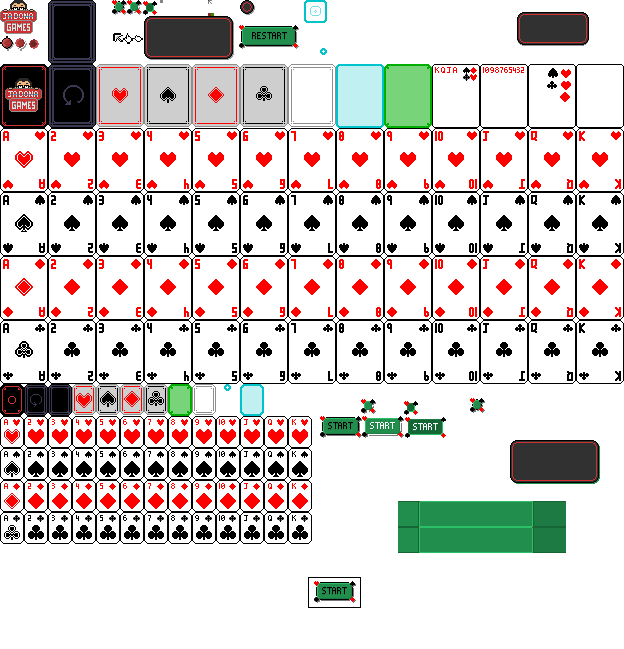
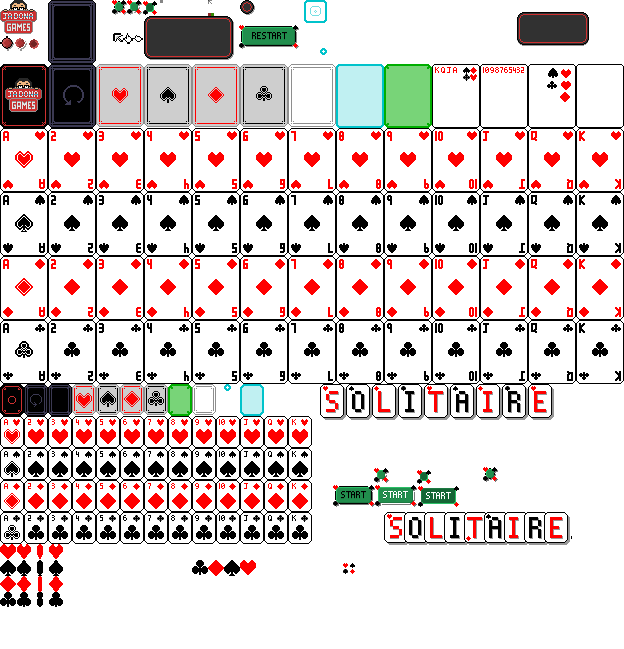
MAJ

diff --git a/SCENES/titleScreen.js b/SCENES/titleScreen.js
@@ -14,6 +14,41 @@ class TitleScreen {
     static init() {
         canvas.style.backgroundColor = CANVAS_ORIGIN_COLOR;
 
+        let originX = 320;
+        let offX = 0;
+        let y = 10;
+        let offY = 3; 
+        for (let i = 0; i < 9; i++) {
+            if (isPair(i)) {
+                // y = 10;
+            } else {
+                // y = 12
+            }
+            let letter = new Sprite({ w: 26, h: 36 }, 1+offX, y+offY, null, "TitleScreen");
+            letter.addAnimation("normal", { x: originX, y: 384 });
+            letter.changeAnimation("normal");
+            
+
+            if (isPair(i)) {
+                letter.setOriginPos({ x: 1+offX, y: y+offY });
+                letter.setOriginDestination({ x: 1+offX, y: y-3 });
+                letter.setMovingType(Sprite.MOVING_TYPE.ComeAndGo);
+                letter.setDestination({ x:  1+offX, y: y-3 });  
+            } else {
+                letter.setOriginPos({ x: 1+offX, y: y+offY });
+                letter.setOriginDestination({ x: 1+offX, y: y+3 });
+                letter.setMovingType(Sprite.MOVING_TYPE.ComeAndGo);
+                letter.setDestination({ x:  1+offX, y: y+3 });
+            }
+            offY = -offY;
+
+            TitleScreen.list.push(letter);
+            originX += 26;
+            offX += 20;
+
+
+        }
+
         let normalBtn = new Button({ w: 60, h: 24, v: 7}, centerX(60), 100, null, { cb: TitleScreen.start, arg: 1 }, "TitleScreen", TitleScreen.STATE.Main, "NORMAL", 1);
         normalBtn.setFreeLabel();
         normalBtn.setFontColor(CARD_BTN_SDW_COLOR, BLACK_COLOR, CARD_BTN_SDW_COLOR);
